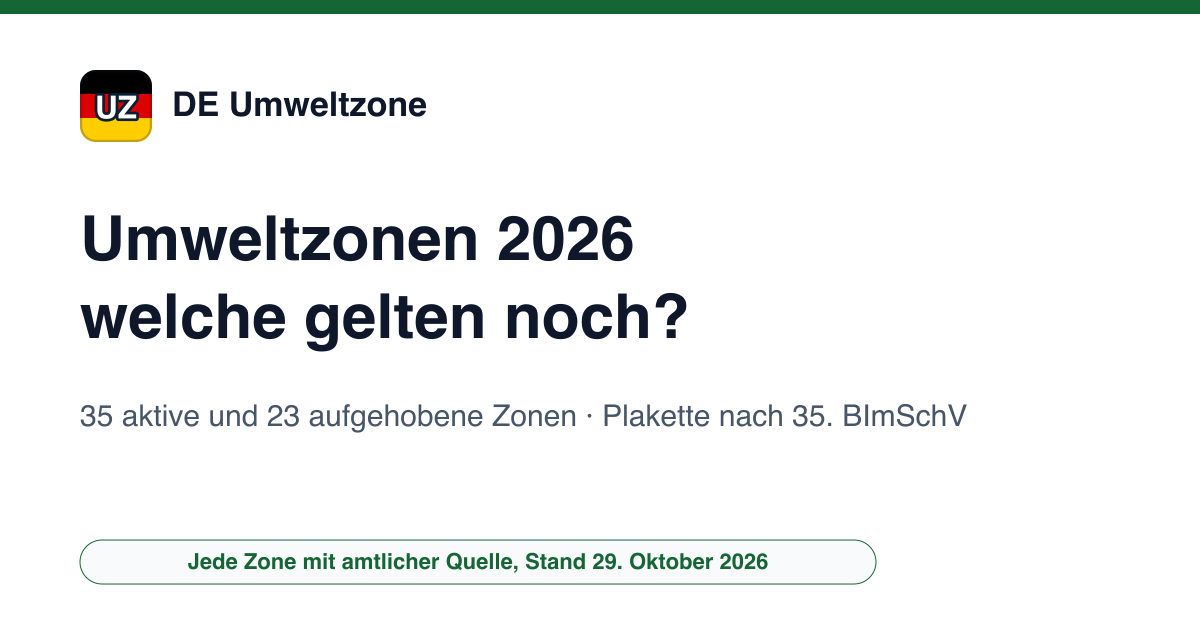
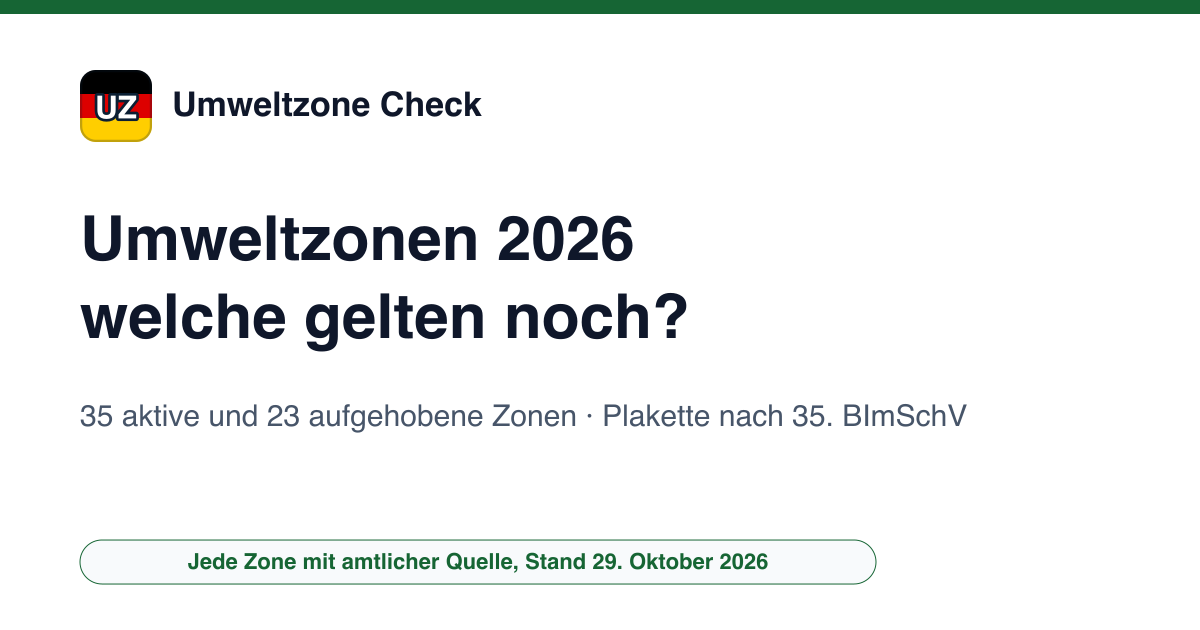
Renommage en Umweltzone Check (umweltzonecheck.de)
Domaine umweltzonecheck.de (au lieu de de-umweltzone.example), marque Umweltzone Check (au lieu du provisoire DE Umweltzone), contact contact@umweltzonecheck.de, public/CNAME, robots, manifest, og.json et images OG de/en régénérées, site-config, package.json ; ping IndexNow ajouté au workflow après déploiement.

Changed region(s): [[0.1542, 0.1206, 0.4008, 0.181]]

diff --git a/src/data/site-config.ts b/src/data/site-config.ts
@@ -1,6 +1,6 @@
 /** Configuration centrale du site (générée par new-site.py). */
-export const SITE_URL = "https://de-umweltzone.example";
-export const SITE_NAMES: Record<string, string> = {"de": "DE Umweltzone", "en": "DE Umweltzone"};
+export const SITE_URL = "https://umweltzonecheck.de";
+export const SITE_NAMES: Record<string, string> = {"de": "Umweltzone Check", "en": "Umweltzone Check"};
 // Partie du nom affichée en couleur dans l'en-tête (RECETTE §10.3), « » pour aucune.
 export const BRAND_ACCENT = "Umweltzone";
 export const LANG_TAGS: Record<string, string> = {"de": "de-DE", "en": "en-DE"};
@@ -20,7 +20,7 @@ export const AUTHOR_DESC: Record<string, string> = {"de": "Radif Partners gleich
  *  themes reellement traites par le site, pas une liste de mots-cles : un sujet
  *  declare ici sans page qui le couvre est une declaration fausse. */
 export const KNOWS_ABOUT: Record<string, string[]> = {"de": ["Umweltzonen nach § 40 BImSchG", "Kennzeichnungsverordnung (35. BImSchV)", "Schadstoffgruppen und Umweltplaketten", "Luftreinhaltepläne der Länder und Städte", "Diesel-Verkehrsverbote"], "en": ["Low-emission zones under section 40 of the Federal Immission Control Act", "Labelling Ordinance (35th BImSchV)", "Emission groups and environmental stickers", "Clean-air plans of the German states and cities", "Diesel driving bans"]};
-export const CONTACT_EMAIL = "contact@de-umweltzone.example";
+export const CONTACT_EMAIL = "contact@umweltzonecheck.de";
 export const THEME_COLOR = '#166534';
 export const LOGO_SYMBOL = 'UZ';
 export const BING_VERIFY_CODE = '';
